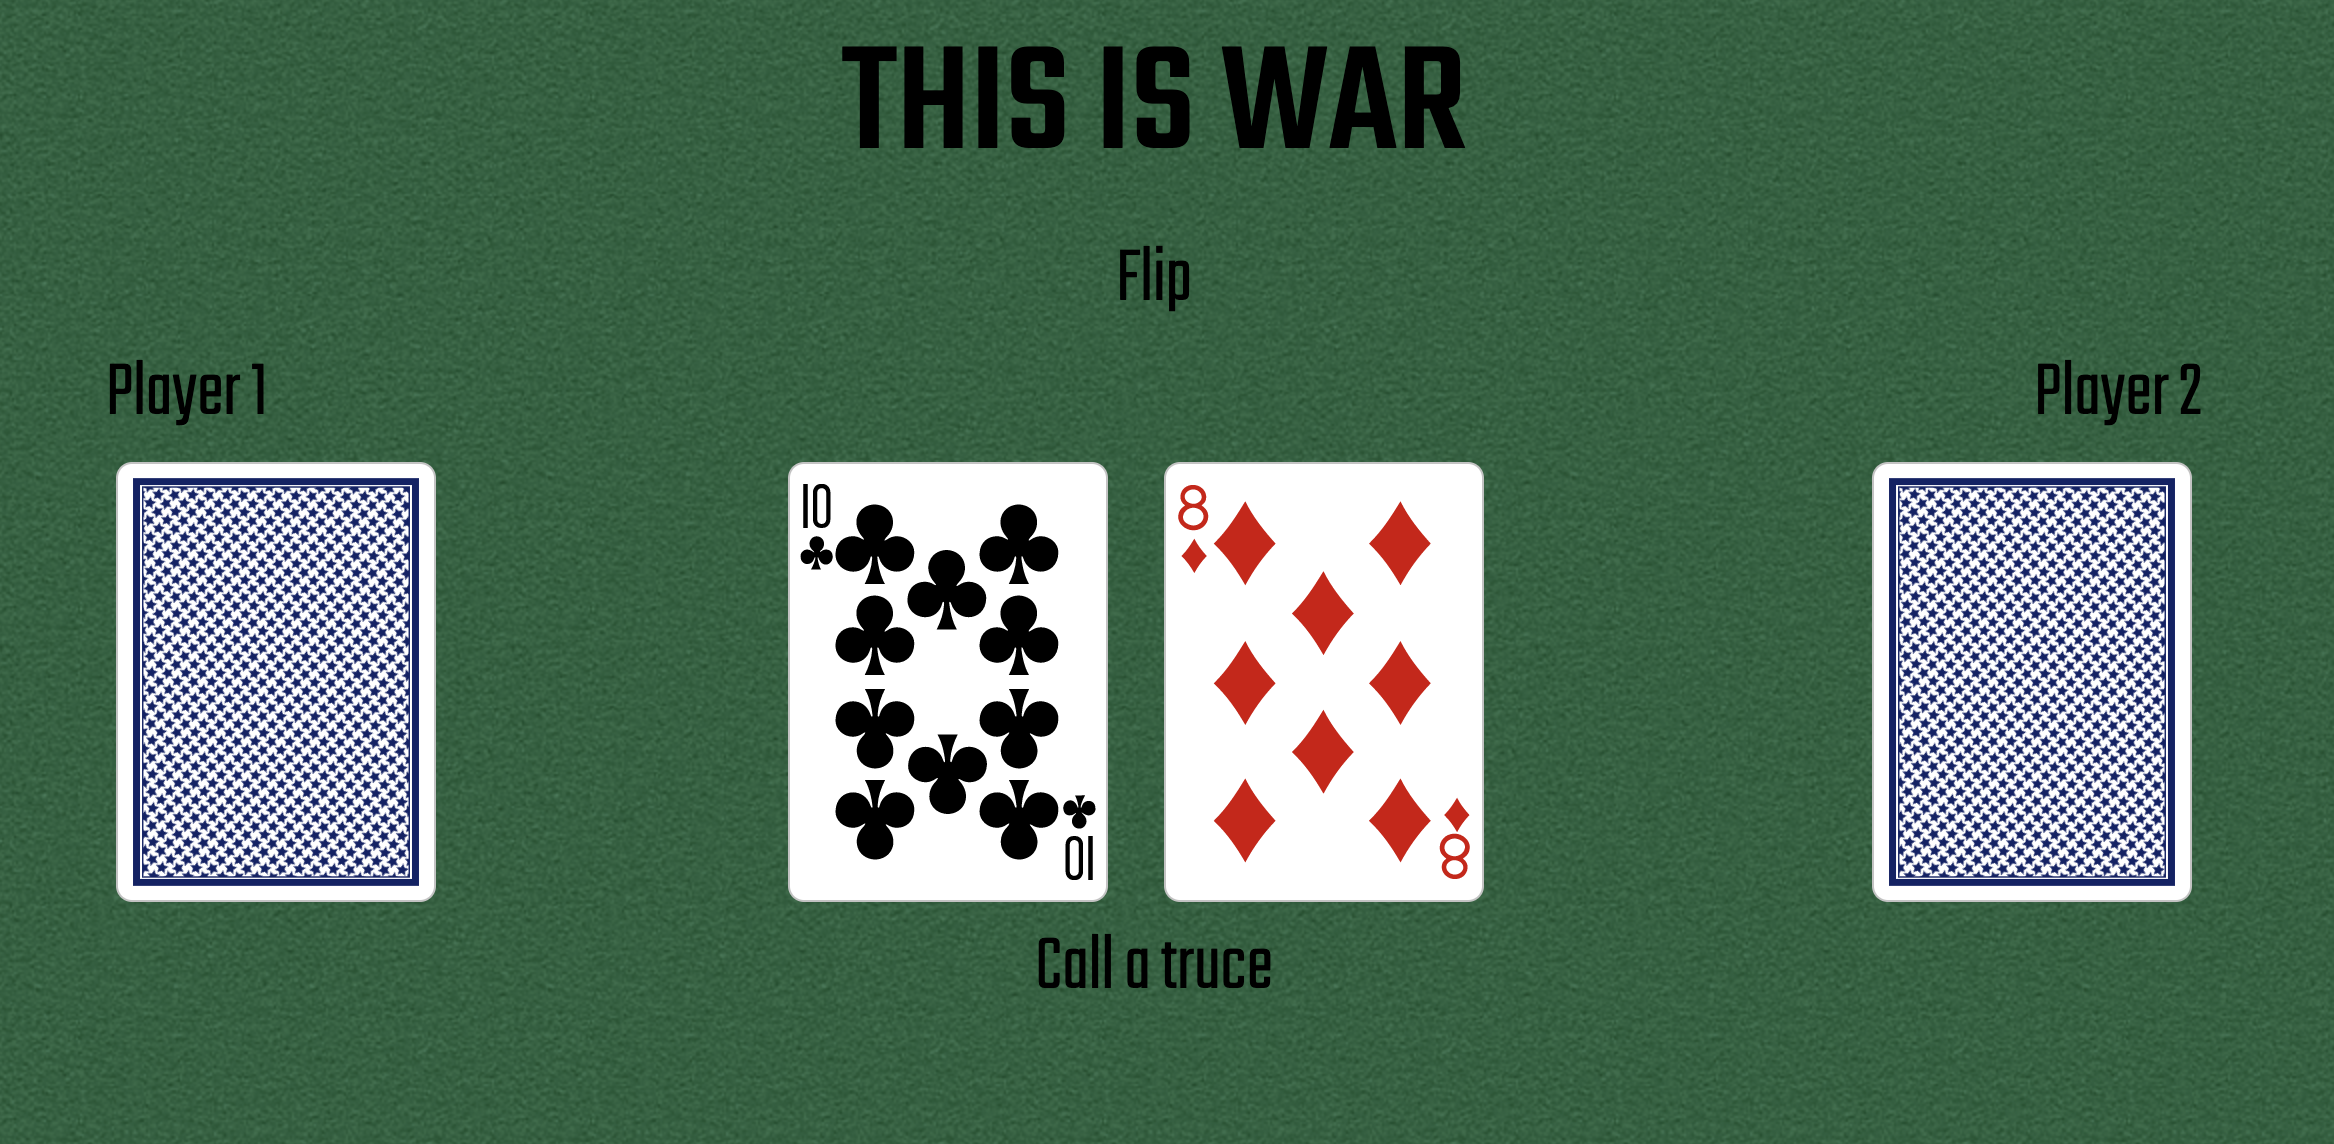
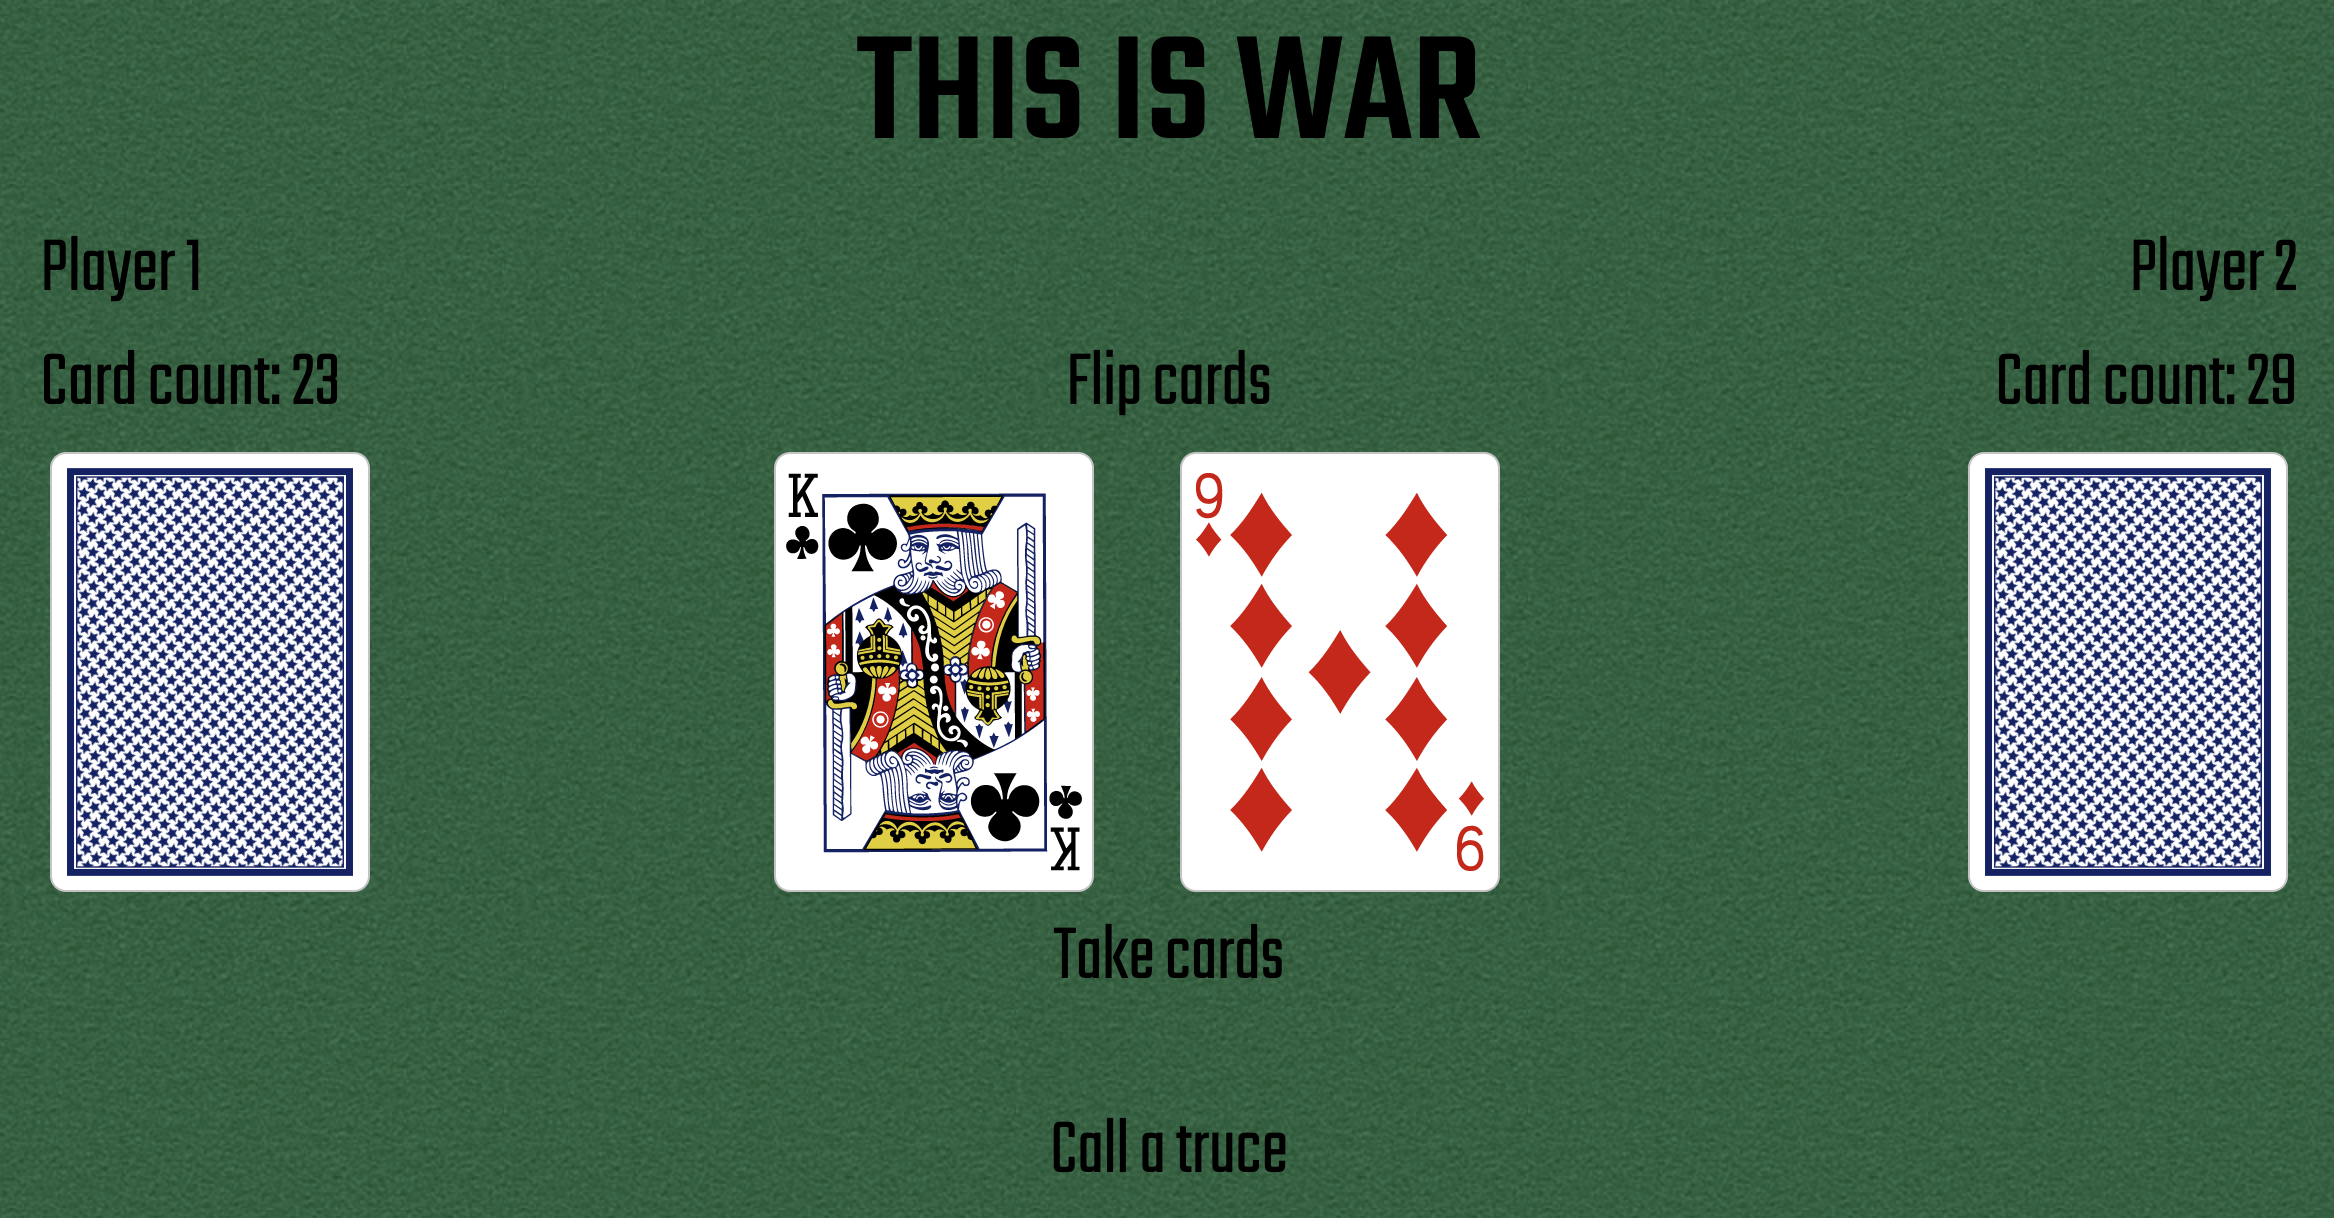
update UI and README

diff --git a/js/main.js b/js/main.js
@@ -12,13 +12,11 @@ let shuffledDeck, winner;
 const players = {
   one: {
       hand: [],
-      inPlay: [],
-      cardCount: null
+      inPlay: []
   },
   two: {
       hand: [],
-      inPlay: [],
-      cardCount: null
+      inPlay: []
   }
 }
 
@@ -31,15 +29,17 @@ const landingEls = {
 }
 const gameBoardEls = {
   $playerOne: $("#player1"),
+  $playerOneCount: $("#count1"),
   $playerOneDeck: $("#card-back1"),
   $playerTwo: $("#player2"),
+  $playerTwoCount: $("#count2"),
   $playerTwoDeck: $("#card-back2"),
 }
 
 /*----- event listeners -----*/
 // document.querySelector('button').addEventListener('click', renderShuffledDeck) //? don't think I need this
 $("#start").on("click", renderStart)
-$("#rules").on("click", showRules)
+// $("#rules").on("click", showRules)
 $("#flip").on("click", flipCard)
 $("#take").on("click", takeCards)
 
@@ -67,15 +67,17 @@ function renderStart() {
   gameBoardEls.$playerTwo.html("Player 2");
   gameBoardEls.$playerTwoDeck.attr("src", "css/card-deck-css/images/backs/blue.svg");
   deal();
+  gameBoardEls.$playerOneCount.html(`Card count: ${players.one.hand.length}`);
+  gameBoardEls.$playerTwoCount.html(`Card count: ${players.two.hand.length}`);
 }
 function renderFlip() {
     players.one.inPlay.forEach(function(card) {
       const $playerOneInPlay = $("#in-play1");
-      $playerOneInPlay.addClass(`card ${card.face}`);
+      $playerOneInPlay.append("<div></div>").addClass(`card ${card.face}`);
     })
     players.two.inPlay.forEach(function(card) {
       const $playerTwoInPlay = $("#in-play2");
-      $playerTwoInPlay.addClass(`card ${card.face}`);
+      $playerTwoInPlay.append("<div></div>").addClass(`card ${card.face}`);
     })
 }
 function takeCardsRender() {
@@ -83,7 +85,12 @@ function takeCardsRender() {
     $playerOneInPlay.removeClass();
     const $playerTwoInPlay = $("#in-play2");
     $playerTwoInPlay.removeClass();
-  console.log("takeCardsRender complete");
+    gameBoardEls.$playerOneCount.html(`Card count: ${players.one.hand.length}`);
+    gameBoardEls.$playerTwoCount.html(`Card count: ${players.two.hand.length}`);
+
+}
+function renderWinner() {
+  // modal here?
 }
 function renderShuffledDeck() {
     // Create a copy of the masterDeck (leave masterDeck untouched!)
@@ -108,42 +115,38 @@ function renderShuffledDeck() {
 //     container.innerHTML = cardsHtml;
 //   }
   
-  function buildMasterDeck() {
-    const deck = [];
-    // Use nested forEach to generate card objects
-    suits.forEach(function(suit) {
-      ranks.forEach(function(rank) {
-        deck.push({
-          // The 'face' property maps to the library's CSS classes for cards
-          face: `${suit}${rank}`,
-          // Setting the 'value' based on rank; Aces are high
-          value: Number(rank) || (rank === 'J' ? 11 : rank === 'Q' ? 12 : rank === 'K' ? 13 : 14)
-        });
+function buildMasterDeck() {
+  const deck = [];
+  // Use nested forEach to generate card objects
+  suits.forEach(function(suit) {
+    ranks.forEach(function(rank) {
+      deck.push({
+        // The 'face' property maps to the library's CSS classes for cards
+        face: `${suit}${rank}`,
+        // Setting the 'value' based on rank; Aces are high
+        value: Number(rank) || (rank === 'J' ? 11 : rank === 'Q' ? 12 : rank === 'K' ? 13 : 14)
       });
     });
-    return deck;
-  }
+  });
+  return deck;
+}
   
 function deal() {
     players.one.hand = shuffledDeck.slice(0, 26);
     players.two.hand = shuffledDeck.slice(26);
-    console.log("made it to deal function");
 }
 function flipCard() {
-  console.log("start of flipCard")
     if (winner) return; // prevent users from fliping cards if game is over
-    console.log("checked winner");
-    if (players.one.inPlay.length > 0 || players.two.inPlay.length > 0) return // prevent users from flipping cards until current turn is resolved (empty arrays are truthy)
-    console.log("checked if cards are in play");
+    if (players.one.inPlay.length > 0 || players.two.inPlay.length > 0) return // prevent users from flipping cards until current turn is resolved
     for (const player in players) {
       players[player]["inPlay"].unshift(players[player]["hand"][0]);
       players[player]["hand"].shift();
     }
-    console.log("cards have been assigned to arrays");
     renderFlip();
     //TODO checkWinner here? what happens if this is the last card for a player?
 }
 function takeCards() {
+  if (players.one.inPlay.length === 0 || players.two.inPlay.length === 0) return // function will return if there are no cards in play
   if (players.one.inPlay[0] === players.two.inPlay[0]) war();
   if (players.one.inPlay[0].value > players.two.inPlay[0].value) {
     Array.prototype.push.apply(players.one.hand, players.one.inPlay) // take player one's current cards and put them at the "bottom" of player one's hand
@@ -159,9 +162,9 @@ function takeCards() {
     takeCardsRender();
   }
 }
-
 function war() {
   //* this needs to be a loop
+  // if () // if user flips over last card and it initiates war, declare winner ()
   //TODO checkWinner here? how to resolve game if last card flip is a tie
   players.one.inPlay.push(players.one.hand[players.one.hand.length - 1]);
   players.one.hand.shift();
@@ -176,7 +179,15 @@ function war() {
 function checkWinner() {
   // if player one or player two hand === 52, declare winner
   // else, render? return?
-  return (players.one.hand.length === 52 || players.two.hand.length === 52);
+  if (players.one.hand.length === 52) {
+    winner = $playerOne;
+    renderWinner();
+  }
+  if (players.two.hand.length === 52) {
+    winner = $playerTwo;
+    renderWinner();
+  }
+  return winner;
 }
 function showRules() {
   $("#landing-page").hide();

diff --git a/css/main.css b/css/main.css
@@ -42,9 +42,8 @@ header {
     grid-template-rows: auto;
     grid-template-columns: 25vw 14vw 14vw 25vw;
     grid-template-areas: 
-        ". flip flip ."
         "player1 . . player2"
-        "count1 . . count2"
+        "count1 flip flip count2"
         "card-back1 in-play1 in-play2 card-back2"
         ". take take ."
         ". reset reset .";
@@ -91,4 +90,5 @@ header {
 #reset {
     grid-area: reset;
     text-align: center;
+    padding-top: 1em;
 }

diff --git a/index.html b/index.html
@@ -50,7 +50,7 @@
             <img id="card-back2" class="card" src="">
             <div id="in-play2"></div>
 
-            <div id="flip" class="click">Flip</div>
+            <div id="flip" class="click">Flip cards</div>
             <div id="take" class="click">Take cards</div>
             <div id="reset" class="click" title="Restart game">Call a truce</div>
         </section>
